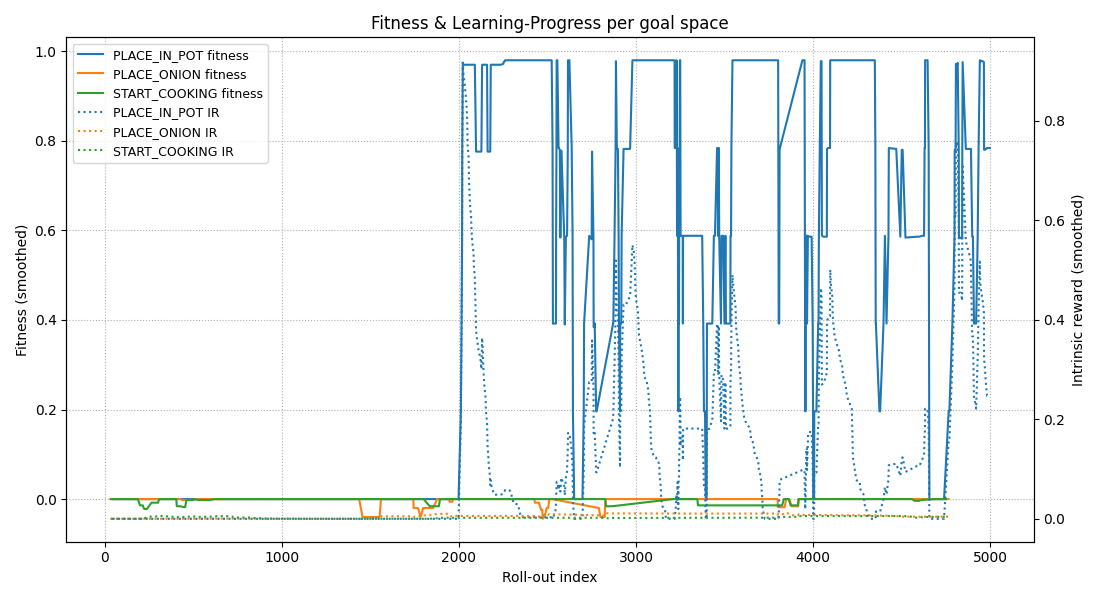
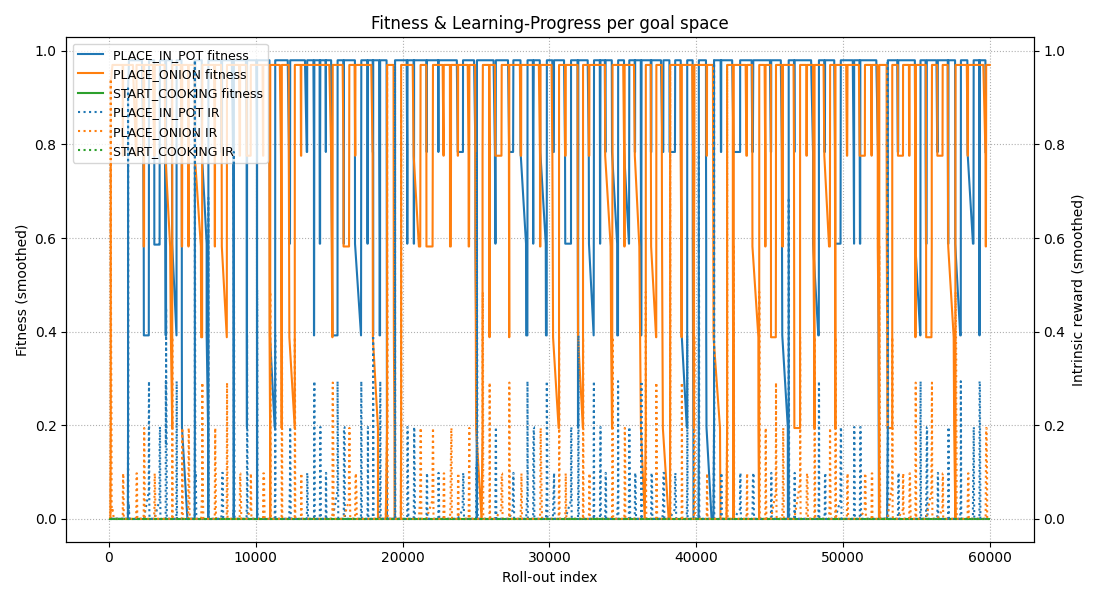
Refactor hyperparameters and goal selection logic for improved performance

diff --git a/IMGEP_agent/agent/agent.py b/IMGEP_agent/agent/agent.py
@@ -8,7 +8,7 @@ from IMGEP_agent.agent.helpers.get_plan import get_plan
 from IMGEP_agent.agent.knowledge_base import KnowledgeBase, RolloutRecord
 from IMGEP_agent.agent.neuro_policy.high_level_actions import HighLevelActions, get_motion_goals
 from IMGEP_agent.agent.neuro_policy.neuro_policy import GoalSpaceNeuroPolicy, get_neuro_policy
-from IMGEP_agent.hyper_parameters import AgentConfig
+from IMGEP_agent.hyper_parameters import AgentConfig, GREEDY
 from overcooked_ai_py.agents.agent import Agent
 from overcooked_ai_py.mdp.actions import Action
 from overcooked_ai_py.mdp.overcooked_env import OvercookedEnv
@@ -42,6 +42,7 @@ class IMGEPAgent(Agent):
         self.goal_reach_time_step = None
         self.rollout_fitness = 0.0
         self.path = []
+        self.own_episode: bool = False  # Whether the episode is for accommodating this agent or the partner agent
 
 
 
@@ -62,9 +63,11 @@ class IMGEPAgent(Agent):
         self.previous_state = None
         reset_goal_spaces(self.goal_spaces)
         exploit = random.random() < self.config.exploit_prob
-        chosen_goal, exploit = select_goal(self.goal_space_emas, other_goal_space_emas=other_goal_space_emas,
-                                           other_kb=other_kb, goal_spaces=self.goal_spaces, own_kb=self.kb,
-                                           exploit=exploit, config=self.config)
+        chosen_goal, exploit, self.own_episode = select_goal(self.goal_space_emas,
+                                                             other_goal_space_emas=other_goal_space_emas,
+                                                             other_kb=other_kb, goal_spaces=self.goal_spaces,
+                                                             own_kb=self.kb,
+                                                             exploit=exploit, config=self.config)
 
         neuro_policy = get_neuro_policy(selected_goal=chosen_goal, kb=self.kb, exploit=exploit,
                                         goal_spaces=self.goal_spaces, config=self.config)
@@ -87,8 +90,7 @@ class IMGEPAgent(Agent):
             else:
                 self.goal_space_neuro_policies.pop()
 
-        if self.previous_state and (self.goal_reach_time_step is None or self.t == self.goal_reach_time_step) and len(
-                self.goal_space_neuro_policies) == 1:
+        if self.t == self.goal_reach_time_step:
             self.rollout_fitness += self.goal_space_neuro_policies[0].goal.fitness(
                 # Only add the fitness of the first goal space
                 pick_step=self.goal_reach_time_step,
@@ -105,7 +107,8 @@ class IMGEPAgent(Agent):
         obs_vec = get_goal_policy_input_vector(state, self.mdp, self.mp, self.agent_id)
 
         # ----------------- high-level action selection ----------------------
-        neuro_policy_token = self.goal_space_neuro_policies[-1].neuro_policy.select_token(obs_vec, greedy=exploit)
+        greedy = GREEDY or exploit
+        neuro_policy_token = self.goal_space_neuro_policies[-1].neuro_policy.select_token(obs_vec, greedy=greedy)
         if neuro_policy_token >= len(HighLevelActions):
             selected_goal = self.goal_spaces[neuro_policy_token - len(HighLevelActions)]
             # If the chosen goal is itself or the fitness is not high enough, do not use the decision to use this
@@ -125,7 +128,7 @@ class IMGEPAgent(Agent):
                         exploit=True
                     )
                 )
-            neuro_policy_token = self.goal_space_neuro_policies[-1].neuro_policy.select_token(obs_vec, greedy=exploit)
+            neuro_policy_token = self.goal_space_neuro_policies[-1].neuro_policy.select_token(obs_vec, greedy=greedy)
 
         if neuro_policy_token < len(HighLevelActions):
             # If the token is a high-level action, we need to get the motion goals for that action
@@ -156,17 +159,14 @@ class IMGEPAgent(Agent):
         exploit = self.goal_space_neuro_policies[0].exploit
         prev_record = self.kb.nearest(goal=goal, k=self.config.ir_avg_prev_records, exploit=exploit)
         # Calculate avarage fitness of the previous records
-        avg_fitness = sum(r.fitness for r in prev_record) / len(prev_record) if prev_record else 0.0
-        prev_f = avg_fitness if prev_record else 0.0
-        rollout_fitness = self.rollout_fitness
+        prev_f = sum(r.fitness for r in prev_record) / len(prev_record) if prev_record else 0.0
+        rollout_fitness = max(0.0, self.rollout_fitness)
         # rollout_fitness += partner_fitness / 4
         fitness_difference = rollout_fitness - prev_f
         shared_reward = info['episode']['ep_shaped_r'] + info['episode']['ep_sparse_r']
         r_i = max(0.0, fitness_difference)
-        if exploit:
-            record_amount = 1
-        else:
-            record_amount = max(1, int(r_i * self.config.neuro_evolution_multiplier))
+        # r_i =fitness_difference
+        record_amount = max(1, int(r_i * self.config.neuro_evolution_multiplier))
 
         # Get the previous rollout index from the kb and increment it
         prev_record = self.kb.nearest(1)
@@ -180,7 +180,7 @@ class IMGEPAgent(Agent):
                 theta=neuro_policy.theta,
                 fitness=rollout_fitness,
                 intrinsic_reward=r_i,
-                exploit=exploit,
+                exploit=exploit if self.own_episode else False,
                 rollout_idx=rollout_idx,
                 partner_goal_id=partner_goal_id,
                 shared_reward=shared_reward

diff --git a/IMGEP_agent/agent/goals/goal_policy.py b/IMGEP_agent/agent/goals/goal_policy.py
@@ -33,7 +33,7 @@ def select_goal(
         own_kb: KnowledgeBase,
         config: AgentConfig,
         exploit: bool = False,
-) -> Tuple[Goal, bool]:
+) -> Tuple[Goal, bool, bool]:
     """
     Pick a goal either for ourselves or to accommodate the partner,
     based on EMA of intrinsic rewards and recent KB mappings.
@@ -53,7 +53,7 @@ def select_goal(
     if our_turn or not other_top:
         candidates = [gs for gs in own_top if abs(gs.ema - own_max) < EPSILON]
         chosen = random.choice(candidates)
-        return get_goal_by_goal_id(chosen.goal.goal_id, goal_spaces), exploit
+        return get_goal_by_goal_id(chosen.goal.goal_id, goal_spaces), exploit, True
 
     # Otherwise, try to accommodate partner
     partner_gs = random.choice(other_top)
@@ -70,11 +70,11 @@ def select_goal(
         mapped_goal = get_goal_by_goal_id(mapped_id, goal_spaces)
         ours = own_kb.nearest(10, goal=mapped_goal, exploit=True)
         if ours and max(r.fitness for r in ours) > config.minimum_goal_fitness:
-            return mapped_goal, True
+            return mapped_goal, True, False
 
     # Fallback: revert to one of our top
     fallback = random.choice(own_top)
-    return get_goal_by_goal_id(fallback.goal.goal_id, goal_spaces), exploit
+    return get_goal_by_goal_id(fallback.goal.goal_id, goal_spaces), exploit, True
 
 
 def update_goal_space_ema(

diff --git a/IMGEP_agent/hyper_parameters.py b/IMGEP_agent/hyper_parameters.py
@@ -1,12 +1,13 @@
 # ROLLOUT PARAMETERS
-HORIZON = 15  # number of steps to run per rollout
-ROLLOUTS = 10000  # number of rollouts to run
+HORIZON = 50  # number of steps to run per rollout
+ROLLOUTS = 40000  # number of rollouts to run
 LAYOUT_ID = 22  # layout index to use from the layouts list in overcooked_ai_py
 LOAD_KB = True  # whether to load the knowledge base from a file or not
 
 # ---- INTRINSIC REWARD ---
-IR_BONUS_CAP: float = 0.20
-IR_BONUS_SLOPE: float = 0.01
+IR_BONUS_CAP: float = 0.10
+IR_BONUS_SLOPE: float = 0.05
+GREEDY: bool = True
 # config.py
 from dataclasses import dataclass
 
@@ -17,10 +18,10 @@ class AgentConfig:
     exploit_prob: float = 0.2
 
     # ------ NEURO POLICY -----
-    neuro_policy_hidden_dim: int = 100
+    neuro_policy_hidden_dim: int = 64
     adaptive_noise_std: float = 0.1
     parent_policy_recent: int = 100
-    mutate_records: int = 50
+    mutate_records: int = 20
     neuro_evolution_multiplier: int = 10
 
     # ----- GOAL SELECTION ----
@@ -29,4 +30,4 @@ class AgentConfig:
     # Selectin of sub policies
     minimum_goal_fitness: float = 0.52
 
-    ir_avg_prev_records: int = 40
+    ir_avg_prev_records: int = 10
